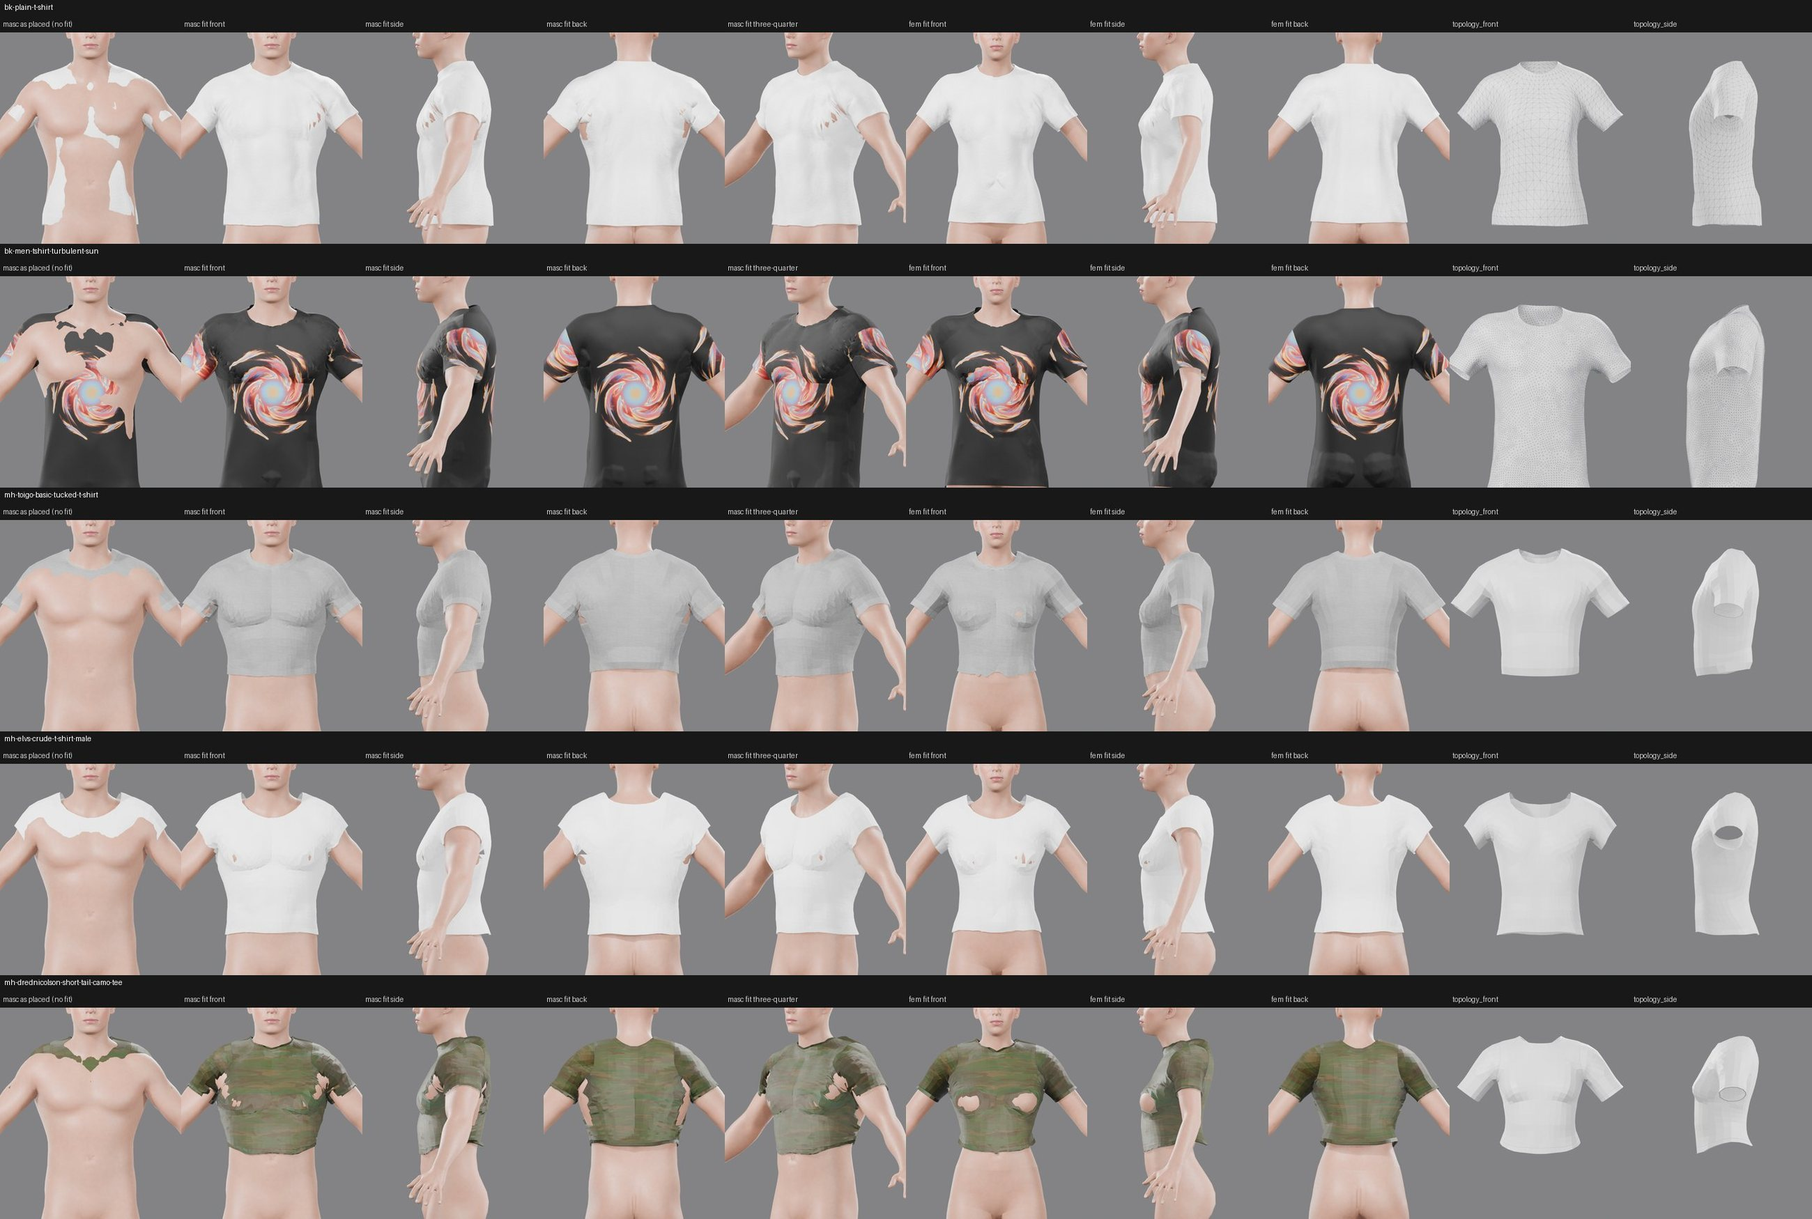
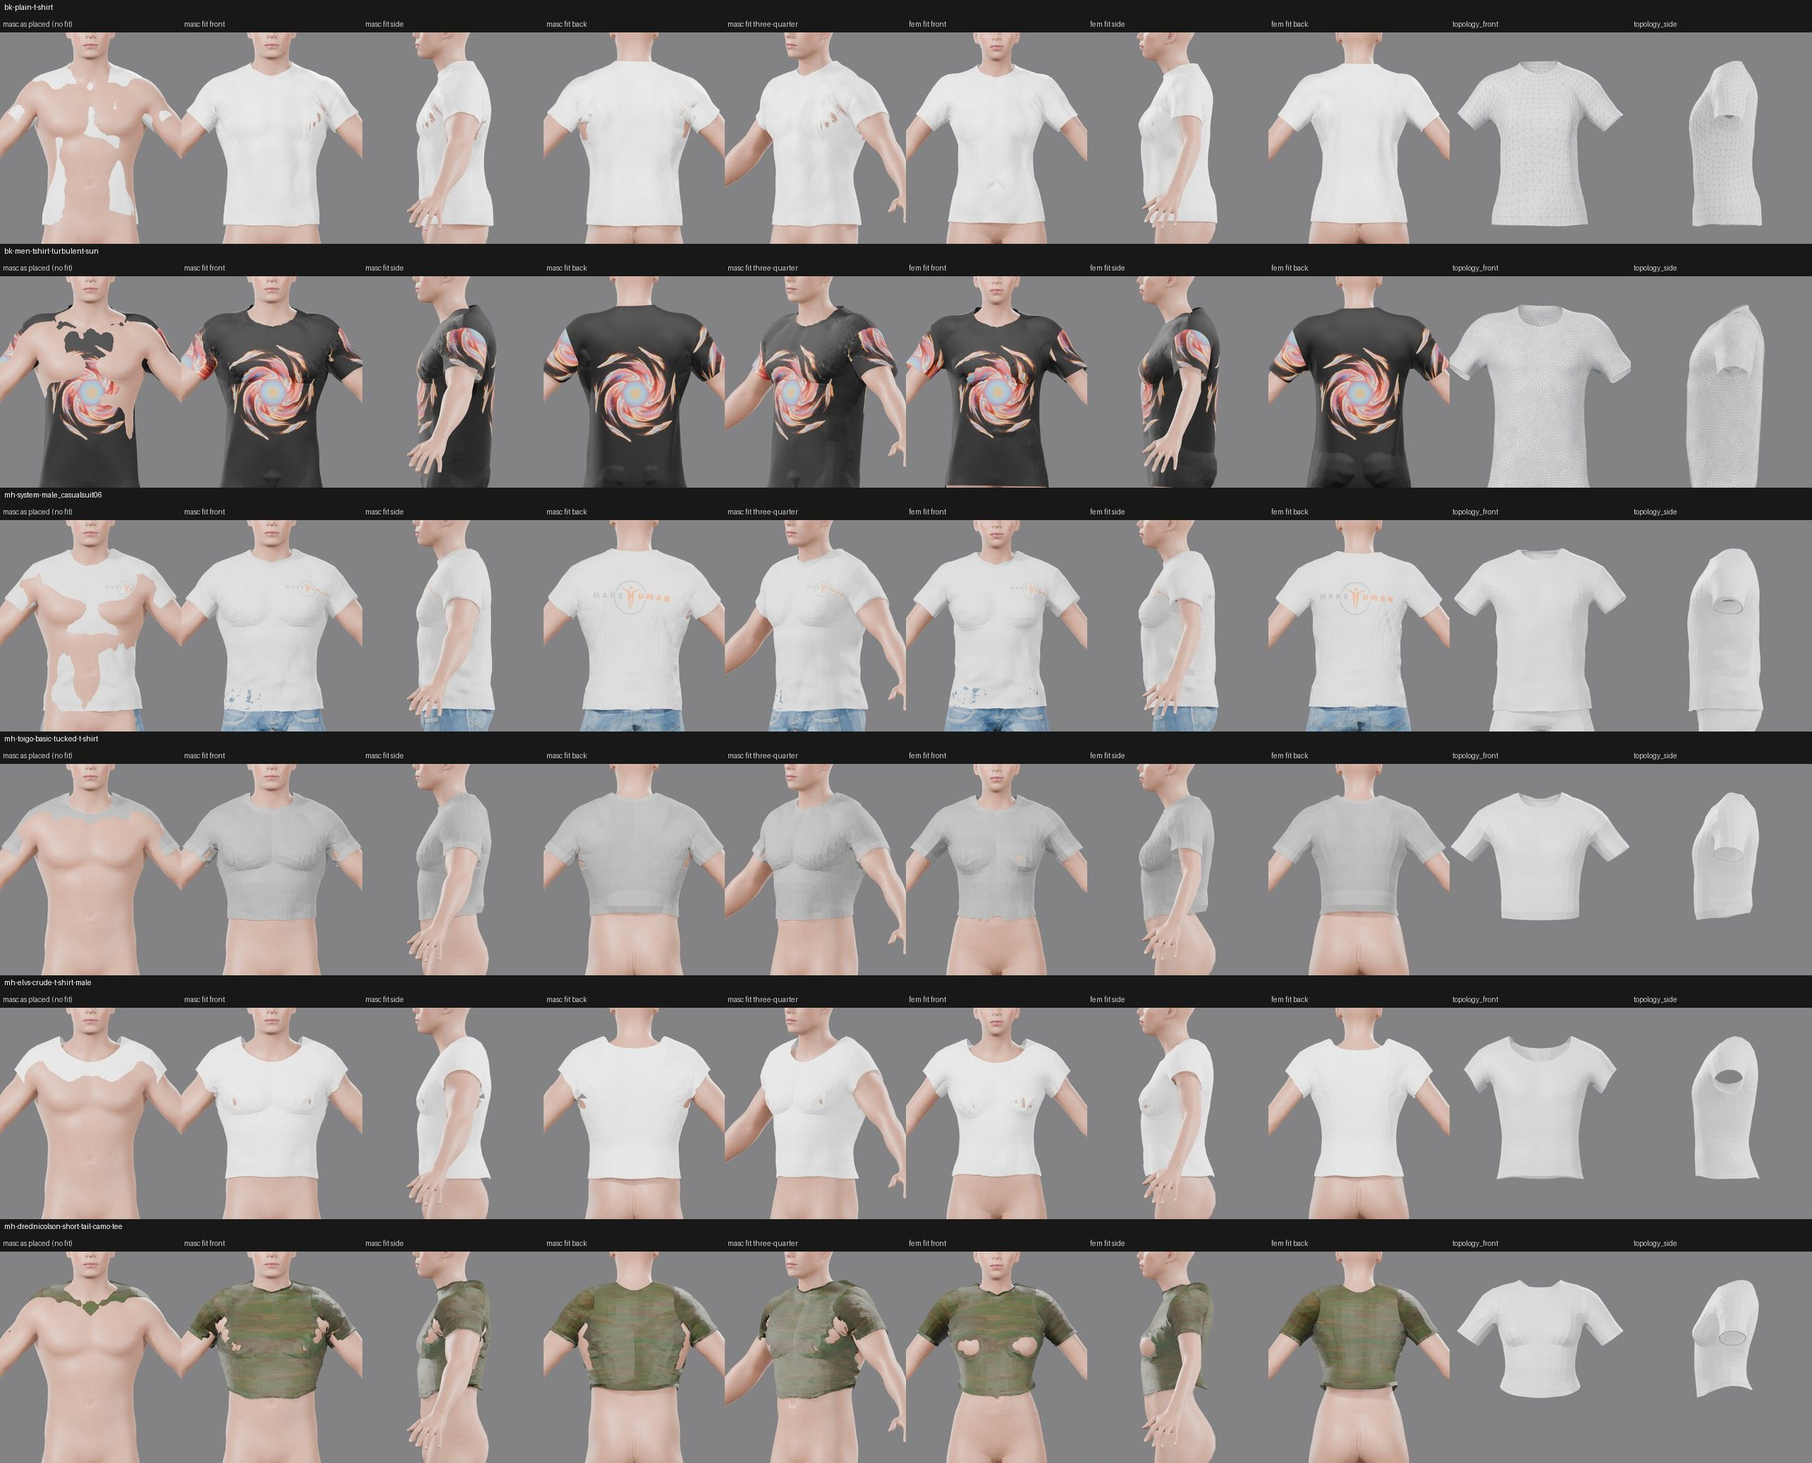
Content Sourcing: the MakeHuman CC0 Packs Evaluated Too
Adds the hair01 and system-assets packs once they finished downloading:
four CC0 hairs (culturalibre_hair_02 and system short02 are the best
short silhouettes found without an account, both shells), the system
tee-and-jeans outfit and two system trainers (one refused as a brand
design). 27 candidates evaluated in all; the ranking and the
recommendation are unchanged.

diff --git a/docs/development/character-studio/refinement/wave5/content-sourcing.md b/docs/development/character-studio/refinement/wave5/content-sourcing.md
@@ -2,7 +2,7 @@
 
 Branch `content-sourcing`, from `refinement-wave5`. Task: decision 11's first step. Find licensed base assets (CC0, CC BY, MIT or Apache-2.0 only) for the four items decision 13 names: a hairstyle, a crew-neck T-shirt, joggers and sneakers. Download the most promising ones where no account is needed, evaluate them in Blender beside the realistic body, score them against decision 13 and [asset-quality.md](../../asset-quality.md) sections 3 and 4, rank them, and say what needs Paul. This is research and evaluation. Nothing in the engine changed.
 
-**In one paragraph.** No base reachable without an account comes close to Production, and none is close for hair or sneakers. Two CC0 garments from BlenderKit are worth starting from: the **Plain T-shirt** (Introspective Mnisi, 2,800 triangles, 4K maps) and the **Grey sweat pants** (the same author, 6,143 triangles, elastic cuffs, a drawcord waistband, back pockets, 2K maps). Both have their own fit, rig and level-of-detail work ahead of them. A third CC0 tee, **Men t-shirt Turbulent sun** (Joachim Bornemann), has the better drape but 21,689 triangles and a printed motif to strip. Every MakeHuman asset I tried (16 of them, CC0 and CC BY) is from an older generation: 400 to 4,000 triangle garments, hair made of shells or flat slabs, sneakers either low-poly or copies of famous designs. The best semi-realistic hair cards and the cleanest game-ready garments are on **Sketchfab under CC BY 4.0**, which needs an account to download. Pocolov Studio's series of about 12 card hairstyles (28k to 34k triangles each) is the strongest hair lead, and MadeByYeshe's Basic T-Shirt (7,202 triangles, Marvelous Designer drape) is the strongest tee lead. **Sneakers are the hardest kind.** Most free sneakers, scanned or modelled, are copies of a branded design, such as the Converse Chuck Taylor, Vans Old Skool, Nike or New Balance. A licence on the mesh does not clear the trade mark or the design. **Recommendation:** start the tee and the joggers from the two BlenderKit CC0 bases now. Ask Paul for a Sketchfab account so the hair can come from Pocolov's set. Treat the sneaker as a model built by hand from a CC0 reference, unless an unbranded CC BY sneaker passes review on its own page.
+**In one paragraph.** No base reachable without an account comes close to Production, and none is close for hair or sneakers. Two CC0 garments from BlenderKit are worth starting from: the **Plain T-shirt** (Introspective Mnisi, 2,800 triangles, 4K maps) and the **Grey sweat pants** (the same author, 6,143 triangles, elastic cuffs, a drawcord waistband, back pockets, 2K maps). Both have their own fit, rig and level-of-detail work ahead of them. A third CC0 tee, **Men t-shirt Turbulent sun** (Joachim Bornemann), has the better drape but 21,689 triangles and a printed motif to strip. Every MakeHuman asset I tried (21 of them, CC0 and CC BY) is from an older generation: 400 to 7,200 triangle garments, hair made of shells or flat slabs, sneakers either low-poly or copies of famous designs. The best semi-realistic hair cards and the cleanest game-ready garments are on **Sketchfab under CC BY 4.0**, which needs an account to download. Pocolov Studio's series of about 12 card hairstyles (28k to 34k triangles each) is the strongest hair lead, and MadeByYeshe's Basic T-Shirt (7,202 triangles, Marvelous Designer drape) is the strongest tee lead. **Sneakers are the hardest kind.** Most free sneakers, scanned or modelled, are copies of a branded design, such as the Converse Chuck Taylor, Vans Old Skool, Nike or New Balance. A licence on the mesh does not clear the trade mark or the design. **Recommendation:** start the tee and the joggers from the two BlenderKit CC0 bases now. Ask Paul for a Sketchfab account so the hair can come from Pocolov's set. Treat the sneaker as a model built by hand from a CC0 reference, unless an unbranded CC BY sneaker passes review on its own page.
 
 ## Files
 
@@ -33,7 +33,7 @@ No code, schema, manifest, test or generated file changed, so there is no red ru
 
 | Source | Licences offered | Account to download? | Usable here? | What I saw |
 |---|---|---|---|---|
-| [MakeHuman community asset packs](https://static.makehumancommunity.org/assets/assetpacks.html) (MakeHuman and MPFB system and community assets) | CC0 or CC BY, per pack and per asset (the pack page's table). CC BY is version 4.0 per the community FAQ | **No** (zip packs from `files2.makehumancommunity.org`; the old per-asset repository pages return 404) | Licence-clean, quality **below the bar** | 16 assets evaluated. Clothes 400 to 4,000 triangles, all quads, made for MakeHuman's base mesh; hair is shells or flat slabs with alpha, one alpha-card curly style. Old-generation look |
+| [MakeHuman community asset packs](https://static.makehumancommunity.org/assets/assetpacks.html) (MakeHuman and MPFB system and community assets) | CC0 or CC BY, per pack and per asset (the pack page's table). CC BY is version 4.0 per the community FAQ | **No** (zip packs from `files2.makehumancommunity.org`; the old per-asset repository pages return 404) | Licence-clean, quality **below the bar** | 21 assets evaluated. Clothes 400 to 7,200 triangles, all quads, made for MakeHuman's base mesh; hair is shells or flat slabs with alpha, one alpha-card curly style. Old-generation look |
 | [BlenderKit](https://www.blendkit.com/docs/licenses/) (now Blendkit) | CC0 and "Royalty Free". RF is refused: no resale "even if modified", and it must not be "directly extractable" from a game | **No for "Free" CC0 assets**: the public search API and the download endpoint work anonymously and give a glTF. **Yes (paid plan)** for CC0 assets not marked Free | **Yes**: the best no-account garments | The two best no-account garment bases (tee, sweat pants). Scanned shoes from one uploader ("Free poly") are all branded designs |
 | [Sketchfab](https://sketchfab.com), CC0 and CC BY downloads | Per model: CC0, CC BY 4.0, also SA, NC, ND (refused). The API states "Author must be credited. Commercial use is allowed." for CC BY | **Yes**: "Downloading a model requires the user to be authenticated with a Sketchfab account" (download API docs); search and metadata are public | **Yes, behind an account** | The best semi-realistic hair cards (Pocolov series) and game-ready garments (Marvelous Designer tees, low-poly joggers). Many re-uploads of game rips and branded sneakers to filter out |
 | [Poly Haven](https://polyhaven.com/license) | CC0 | No | Textures only (already used); no garment, hair or sneaker | 522 models: clothing is only Rubber Boots, Fishermans Hat, Round Spectacles. Fabric scans already feed R7 |
@@ -58,15 +58,19 @@ Measurements are on the file as downloaded. "Pushed" is how many vertices the di
 
 ### Hairstyle (decision 13: actual hair geometry, natural volume, clean silhouette)
 
-**No acceptable candidate is reachable without an account.** All five MakeHuman hairs evaluated are below §4 (`hair.jpg`):
+**No acceptable candidate is reachable without an account.** All nine MakeHuman hairs evaluated are below §4 (`hair.jpg`, in this order):
 
 | Rank | Candidate | Licence | Triangles | What I saw | Verdict |
 |---|---|---|---|---|---|
-| 1 | MakeHuman `punkduck_alpha7_curly` (hair03 pack), punkduck | CC BY 4.0 | 11,304, 1K atlas | Real alpha cards and many strands, but long and curly (not the short or medium cut asked for), ribbon cards visible from the back, 1,024 px atlas, the scalp shows at the parting | Weak base |
-| 2 | `o4saken_chinesebob01` (hair03), punkduck | CC BY 4.0 | 10,108, 2K | Cards, but blocky and patchy; the crown and back read as stacked rectangles | Weak base |
-| 3 | `elvs_short_side_do` (hair02), Elvaerwyn | CC BY 4.0 | 98,660, 1K | A smooth shell ("helmet") with a painted texture. The material file is named `elvs_thejournalist1` and the texture `darkmaggiehair.png`, which may come from other work. Check its provenance before any use | Reference only |
-| 4 | `elvs_grump_hair` (hair02), Elvaerwyn | CC BY 4.0 | 12,332, 2K | Flat slabs fanned round the head; reads as plates in side view | Refused on quality |
-| 5 | `culturalibre_hair_14` (hair03), culturalibre | CC BY 4.0 | 23,489, 1K | Solid shell, black flat texture | Refused on quality |
+| 1 | MakeHuman `culturalibre_hair_02` (hair01 pack), culturalibre | CC0 | 3,460, 2K | The most believable short men's crop of the set: a close cap with a soft alpha fringe and a photo-like texture. Still a shell, not hair geometry, and it has no hairline ramp | Weak base (silhouette) |
+| 2 | MakeHuman system `short02` (system assets), MakeHuman | CC0 | 3,344, 2K | A short men's cut: a shell with a photo texture; reads as a helmet in the side view | Weak base (silhouette) |
+| 3 | MakeHuman `punkduck_alpha7_curly` (hair03 pack), punkduck | CC BY 4.0 | 11,304, 1K atlas | Real alpha cards and many strands, but long and curly (not the short or medium cut asked for), ribbon cards visible from the back, 1,024 px atlas, the scalp shows at the parting | Weak base |
+| 4 | MakeHuman `toigo_blunt_bob` (hair01), MargaretToigo | CC0 | 2,858, 3600 px | A clean blunt-bob silhouette, a closed shell with a painted strand texture: no cards, no volume of its own | Reference only (silhouette) |
+| 5 | `o4saken_chinesebob01` (hair03), punkduck | CC BY 4.0 | 10,108, 2K | Cards, but blocky and patchy; the crown and back read as stacked rectangles | Weak base |
+| 6 | `elvs_short_side_do` (hair02), Elvaerwyn | CC BY 4.0 | 98,660, 1K | A smooth shell ("helmet") with a painted texture. The material file is named `elvs_thejournalist1` and the texture `darkmaggiehair.png`, which may come from other work. Check its provenance before any use | Reference only |
+| 7 | `elvs_grump_hair` (hair02), Elvaerwyn | CC BY 4.0 | 12,332, 2K | Flat slabs fanned round the head; reads as plates in side view | Refused on quality |
+| 8 | `culturalibre_hair_14` (hair03), culturalibre | CC BY 4.0 | 23,489, 1K | Solid shell, black flat texture | Refused on quality |
+| 9 | `cortu_short_messy_hair` (hair01), Cortu | CC0 | 1,092, 512 px | A few broken strips over the scalp; the scalp shows everywhere | Refused on quality |
 
 **Behind a Sketchfab account (CC BY 4.0), the leads.** Ranked from each model's page record and pictures; not downloaded:
 
@@ -85,9 +89,10 @@ Refused on Sketchfab: zHairezt's short styles ("ALL CREDITS TO ZEPETO": game rip
 |---|---|---|---|---|---|---|---|
 | 1 | **BlenderKit [Plain T-shirt](https://www.blendkit.com/asset-gallery-detail/cd6d0347-484a-426c-9c72-9b8c117ef500/)**, Introspective Mnisi | CC0 | 2,800 (within §3's 6k) | 0.896 | 4K colour, normal, roughness | A real crew neck with a band, clean back with no seam or tear, set-in short sleeves, straight hem. 0 non-manifold edges, 128 open edges (neck, sleeves, hem: no turned thickness). 0.61 m tall. Fits a smaller body: the push-out moved it up to 71 mm | **Good base** |
 | 2 | BlenderKit [Men t-shirt Turbulent sun](https://www.blendkit.com/asset-gallery-detail/263a0760-fcb4-4413-b461-676d8bef9e9b/), Joachim Bornemann | CC0 | 21,689 (3.6x the budget) | 0.936 | 1K colour, normal, ORM | The best drape of the no-account tees, with a rib collar and sleeve hems, but a large printed sun motif front and back, and only 1K maps. 0.70 m long, a man's regular fit | Good base for shape (retopology and a new texture) |
-| 3 | MakeHuman `toigo_basic_tucked_t-shirt` (shirts01), MargaretToigo | CC0 | 2,700 | 1.0 (quads) | 2K colour | Clean quads but cut short to tuck in; flat faceted shading | Weak base |
-| 4 | MakeHuman `elvs_crude_t-shirt_male` (shirts01), Elvaerwyn | CC0 | 2,068 | 1.0 | 1K | As named: crude, short, wide neck, no hems | Refused on quality |
-| 5 | MakeHuman `drednicolson_short-tail_camo_tee` (shirts03), DredNicolson | CC BY 4.0 | 3,746 | 1.0 | 2K | Cropped, camouflage, faceted | Refused on quality |
+| 3 | MakeHuman system `male_casualsuit06`, MakeHuman | CC0 | 7,168 (tee and jeans in one mesh) | 1.0 | 2K colour, normal | A plain white tee over jeans, one mesh; the tee carries the MakeHuman logo front and back; faceted at this resolution | Weak base |
+| 4 | MakeHuman `toigo_basic_tucked_t-shirt` (shirts01), MargaretToigo | CC0 | 2,700 | 1.0 (quads) | 2K colour | Clean quads but cut short to tuck in; flat faceted shading | Weak base |
+| 5 | MakeHuman `elvs_crude_t-shirt_male` (shirts01), Elvaerwyn | CC0 | 2,068 | 1.0 | 1K | As named: crude, short, wide neck, no hems | Refused on quality |
+| 6 | MakeHuman `drednicolson_short-tail_camo_tee` (shirts03), DredNicolson | CC BY 4.0 | 3,746 | 1.0 | 2K | Cropped, camouflage, faceted | Refused on quality |
 
 Behind a Sketchfab account: [Basic T-Shirt](https://sketchfab.com/3d-models/basic-t-shirt-71bdf5940b5d41b8b46628a615e9b0ed) by MadeByYeshe. It has 7,202 faces, was "made in Marvelous Designer, textured in Substance Painter and remeshed in Blender", is game-ready and CC BY, and is the strongest tee lead. [Standard T-shirt](https://sketchfab.com/3d-models/standard-t-shirt-1815c01895bd4538bc0bd05c3394698d) by Badboy17Aiden has 362,067 faces and is a Marvelous drape: a fold reference only. Refused: u-76's "T-shirt LP" is a henley with raglan sleeves, not a crew neck. Hyperrealitystudio's "T-shirt" is a stylized polo. "Casual White Tee And Beige Joggers" is a scan of a person.
 
@@ -115,10 +120,12 @@ Refused: "Dillard, Darren Joggers", because its texture copies the Champion logo
 | Rank | Candidate | Licence | Triangles | What I saw | Verdict |
 |---|---|---|---|---|---|
 | 1 | MakeHuman `punkduck_running_shoes_01` (shoes02), punkduck | CC BY 4.0 | 2,792 a pair, 2K | A plain low runner; low-poly faceted toe; texture with a repeating made-up wordmark; open at the collar (412 open edges). 0.23 m long against our 0.248 m masculine foot | Weak base (silhouette only) |
-| 2 | MakeHuman `punkduck_comfortable_sneakers` (shoes02) | CC BY 4.0 | 1,556 | A slip-on, not a lace-up sneaker; very coarse | Refused on quality |
-| 3 | MakeHuman `punkduck_tennis_shoes` (shoes02) | CC BY 4.0 | 3,340 | Shoe and sock fused into one mesh; boxy | Refused on quality |
-| 4 | MakeHuman `culturalibre_sneakers` (shoes02) | CC BY 4.0 | 9,042, 1K | High-top basketball shoe whose panels follow a famous retro basketball design | Refused: design copy |
-| 5 | MakeHuman `elvs_zombie_killer_sneakers` (shoes02) | CC BY 4.0 | 153,938, 42 non-manifold edges | A Chuck Taylor-style high top (ankle patch, toe cap, stripe) | Refused: design copy |
+| 2 | MakeHuman system `shoes06`, MakeHuman | CC0 | 3,064, 1K | A blue runner with side stripes and the sock fused to it; low-poly toe | Weak base (silhouette only) |
+| – | MakeHuman system `shoes05` | CC0 | 3,064, 1K | A white trainer with three diagonal side stripes | Refused: brand design |
+| 3 | MakeHuman `punkduck_comfortable_sneakers` (shoes02) | CC BY 4.0 | 1,556 | A slip-on, not a lace-up sneaker; very coarse | Refused on quality |
+| 4 | MakeHuman `punkduck_tennis_shoes` (shoes02) | CC BY 4.0 | 3,340 | Shoe and sock fused into one mesh; boxy | Refused on quality |
+| 5 | MakeHuman `culturalibre_sneakers` (shoes02) | CC BY 4.0 | 9,042, 1K | High-top basketball shoe whose panels follow a famous retro basketball design | Refused: design copy |
+| 6 | MakeHuman `elvs_zombie_killer_sneakers` (shoes02) | CC BY 4.0 | 153,938, 42 non-manifold edges | A Chuck Taylor-style high top (ankle patch, toe cap, stripe) | Refused: design copy |
 | – | BlenderKit [Scan shoe11](https://www.blendkit.com/asset-gallery-detail/56a82c29-d8fe-454d-b4d6-8eb44be3e38c/), "Free poly" | CC0 label | 100,000, 8K | The most convincing material of any sneaker here (canvas, rubber toe cap, laces), but a closed solid with no opening (0 open edges), 0.459 quads after join. A low canvas sneaker with the side eyelet vents and toe cap of a Chuck Taylor. The uploader's other scans are Converse, New Balance, Adidas and Nike shoes. BlenderKit's own article says it rejects CC0 re-uploads made for profit, so provenance is doubtful | Reference only (shape and wear) |
 | – | BlenderKit Scan Shoe 7, "Free poly" | CC0 label | 10,000 | A Converse high top with its star patch | Refused: brand. Not in the sheets |
 
@@ -180,6 +187,8 @@ Refused on brand: abazibiz's "sneakers" (Converse star), meerschaumdigital's "Bl
[5 lines of base64/hex data omitted]
 
 Each MakeHuman item extracted into its own folder (`<kind>/mh-<name>/`) has a `<folder>.sha256` beside it, listing every file's hash. No script that came with a download was run. No `.blend` was opened: BlenderKit's glTF files and MakeHuman's OBJ and material text were read as data.
 
@@ -192,7 +201,7 @@ The sheets show renders of these assets. They are ours, but they depict CC BY wo
 - "culturalibre_hair_14" and "culturalibre_sneakers" by culturalibre;
 - "drednicolson_short-tail_camo_tee" by DredNicolson.
 
-All are CC BY 4.0, from the MakeHuman community asset packs. The CC0 items need no credit: they are by Introspective Mnisi, Joachim Bornemann, Gabriel Mensah and "Free poly" (BlenderKit), and by MargaretToigo, Elvaerwyn and Cortu (MakeHuman). The realistic body is ours, built from Blender Studio's CC0 Human Base Meshes.
+All are CC BY 4.0, from the MakeHuman community asset packs. The CC0 items need no credit: they are by Introspective Mnisi, Joachim Bornemann, Gabriel Mensah and "Free poly" (BlenderKit), and by MargaretToigo, Elvaerwyn, Cortu, culturalibre and the MakeHuman project's system assets (MakeHuman). The realistic body is ours, built from Blender Studio's CC0 Human Base Meshes.
 
 ## Open issues
 
@@ -200,8 +209,8 @@ All are CC BY 4.0, from the MakeHuman community asset packs. The CC0 items need 
 - **Sketchfab leads are unverified beyond their API records and pictures.** Each model's own page must be read before download (licence, "textures included", no logo, author is the maker).
 - **BlenderKit's CC0 assets were downloaded without the add-on**, through the same public API it calls. The licensing FAQ puts no condition on CC0. If the lead prefers, re-download through the add-on with an account and compare hashes.
 - **MakeHuman `elvs_*` files** carry names of other works (`thejournalist`, `darkmaggiehair`). The pack table lists Elvaerwyn as author under CC BY. I did not trace further: none of these items is recommended.
-- The MakeHuman system-assets pack (CC0: `short01` to `short04`, `shoes01` to `shoes06`, the casual suits) and `hair01` (CC0) were still downloading (about 160 KB/s) when this report was written. From the pack thumbnails they are the same generation as the items above.
+- The MakeHuman server delivered about 160 KB/s per file, so only the packs above were fetched (about 0.9 GB). The other packs (shirts02, pants02, pants03, shoes01, shoes03) were judged from their thumbnails only. They are the same generation, with no tee, jogger or sneaker better than those evaluated.
 
 ## At merge
 
-Nothing to rebuild. The report and the five JPGs (about 1.6 MB) are the only files. If wave 5 adopts a base, the intake track records its provenance (section 5's hashes) before any file of it is committed.
+Nothing to rebuild. The report and the five JPGs (about 2.0 MB) are the only files. If wave 5 adopts a base, the intake track records its provenance (section 5's hashes) before any file of it is committed.
